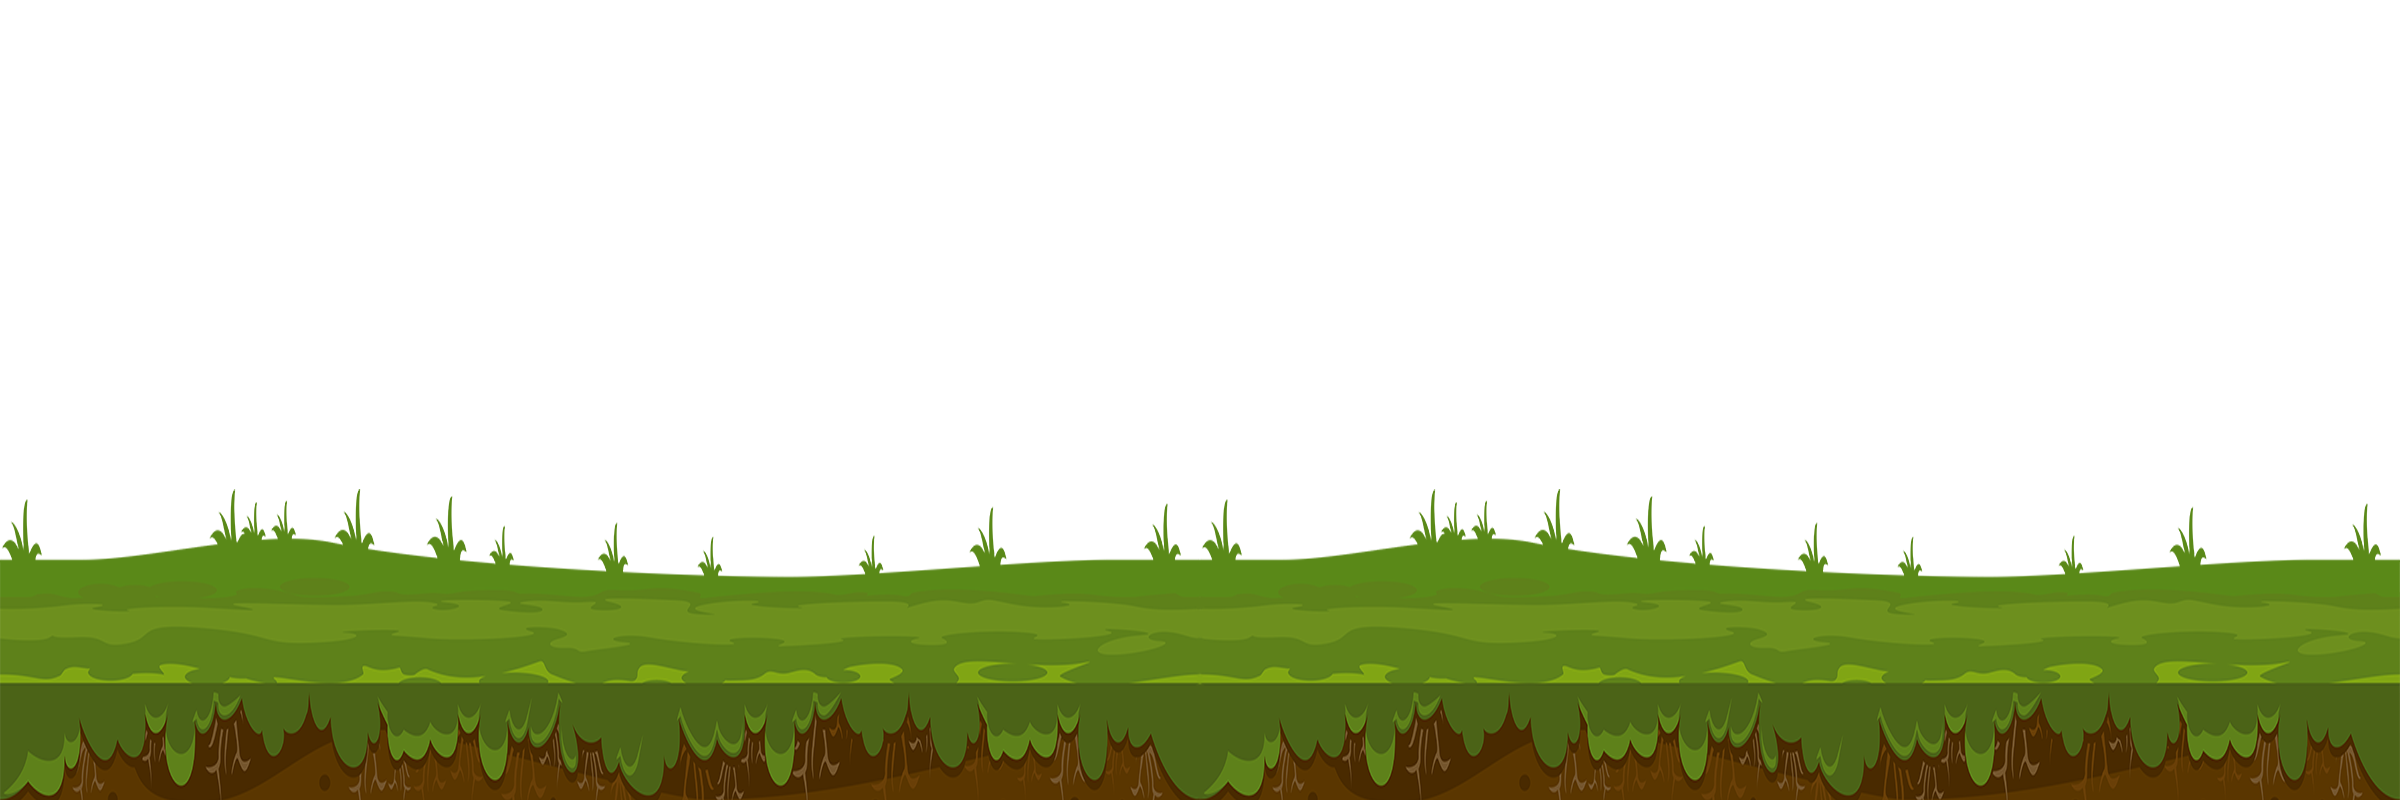
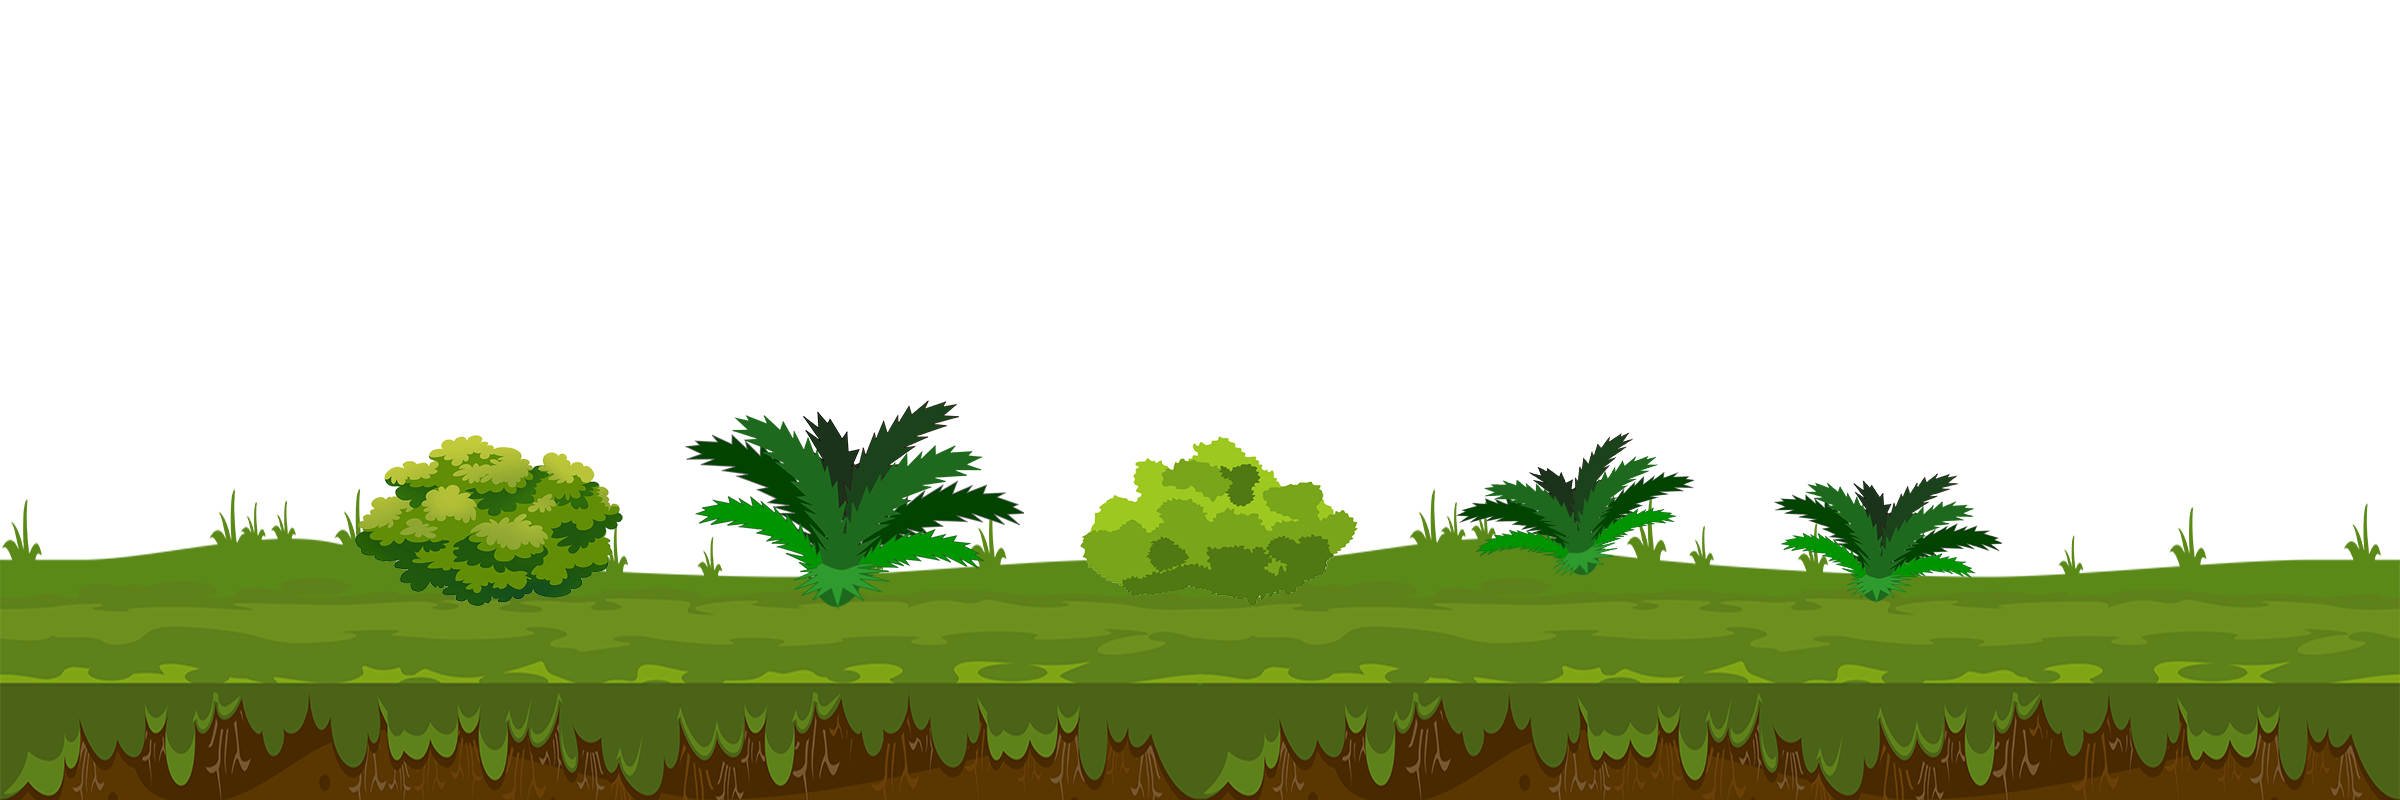
배경 나누기 완료
배경을 3개로 나눠서 원근감을 표현한다.

Changed region(s): [[0.125, 0.5, 0.5625, 0.75], [0.5938, 0.5312, 0.8438, 0.75]]

diff --git a/background.py b/background.py
@@ -26,3 +26,61 @@ class Background:
 
     def handle_event(self, event):
         pass
+
+class Background2:
+    def __init__(self):
+        self.image = load_image('resource\\image\\back_bush1.png')
+        self.canvas_width = get_canvas_width()
+        self.canvas_height = get_canvas_height()
+        self.w = self.image.w
+        self.h = self.image.h
+
+        self.window_left = 0
+        self.window_bottom = 0
+
+    def set_center_object(self, o):
+        self.center_object = o
+
+    def draw(self):
+        self.image.clip_draw_to_origin(
+            self.window_left, self.window_bottom,
+            self.canvas_width, self.canvas_height,
+            0, 0)
+
+    def update(self):
+
+        self.window_left = int( self.center_object.window_left  * ((self.w- self.canvas_width)/(self.center_object.w - self.canvas_width)) )
+
+
+
+    def handle_event(self, event):
+        pass
+
+class Background3:
+    def __init__(self):
+        self.image = load_image('resource\\image\\back_bush2.png')
+        self.canvas_width = get_canvas_width()
+        self.canvas_height = get_canvas_height()
+        self.w = self.image.w
+        self.h = self.image.h
+
+        self.window_left = 0
+        self.window_bottom = 0
+
+    def set_center_object(self, o):
+        self.center_object = o
+
+    def draw(self):
+        self.image.clip_draw_to_origin(
+            self.window_left, self.window_bottom,
+            self.canvas_width, self.canvas_height,
+            0, 0)
+
+    def update(self):
+
+        self.window_left = int( self.center_object.window_left  * ((self.w- self.canvas_width)/(self.center_object.w - self.canvas_width)) )
+
+
+
+    def handle_event(self, event):
+        pass

diff --git a/main_state.py b/main_state.py
@@ -4,6 +4,9 @@ import game_framework
 import game_world
 
 from background import Background
+from background import Background2
+from background import Background3
+
 from camera import Camera
 from base_player import PlayerBase
 from base_computer import ComputerBase
@@ -54,13 +57,23 @@ def enter():
     quit_button = button.QuitButton(1000, 700)
 
     background = Background()
-    game_world.add_object(background, 0)
+
 
     camera = Camera()
     game_world.add_object(camera, 5)
 
     background.set_center_object(camera)
     camera.set_background(background)
+
+    background2 = Background2()
+    background2.set_center_object(background)
+
+    background3 = Background3()
+    background3.set_center_object(background)
+
+    game_world.add_object(background3, 0)
+    game_world.add_object(background2, 0)
+    game_world.add_object(background, 0)
 
     player_base = PlayerBase(50, unit_functions.GROUND_HEIGHT)
     computer_base = ComputerBase(background.w - 50, unit_functions.GROUND_HEIGHT)
